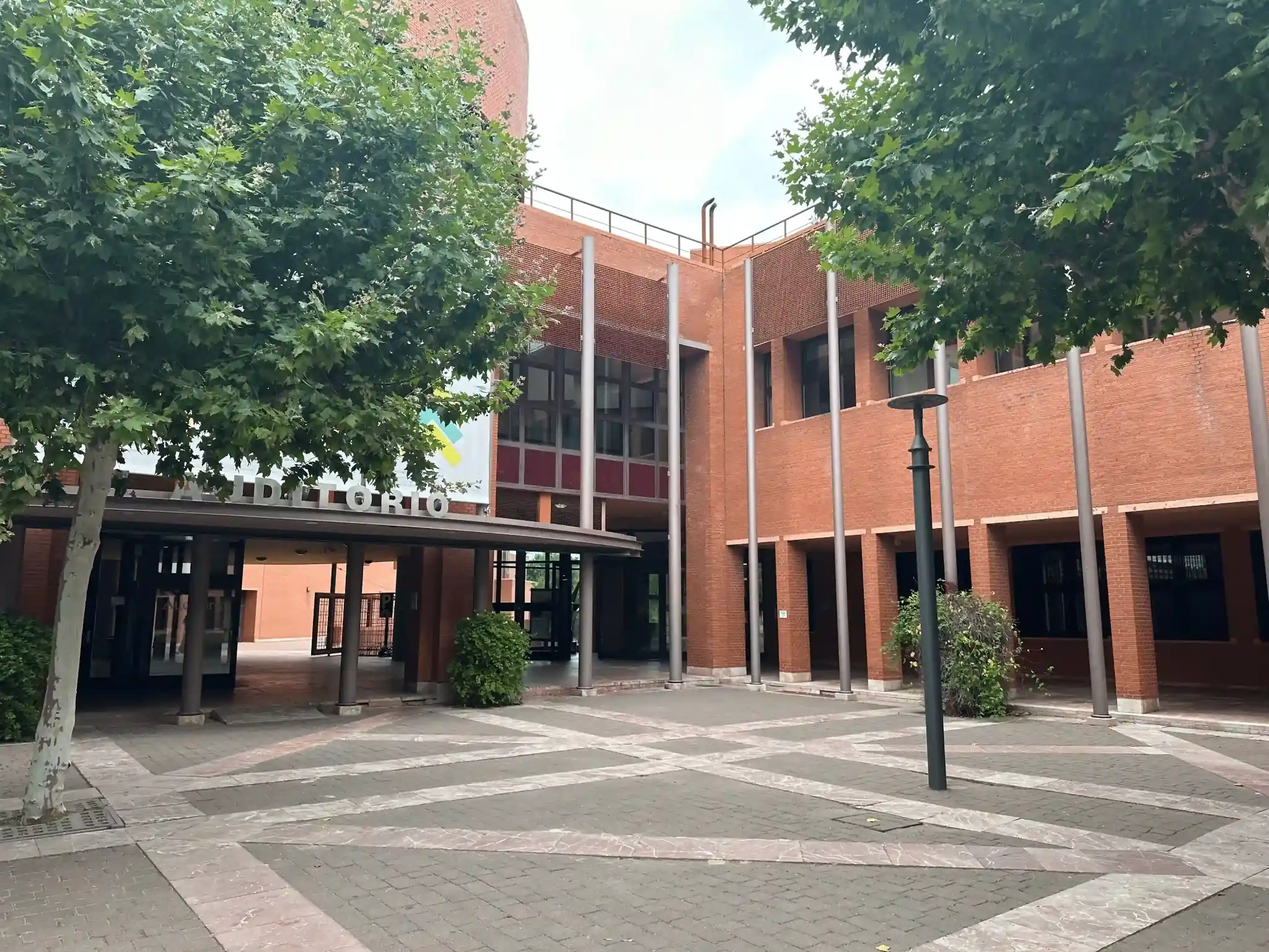
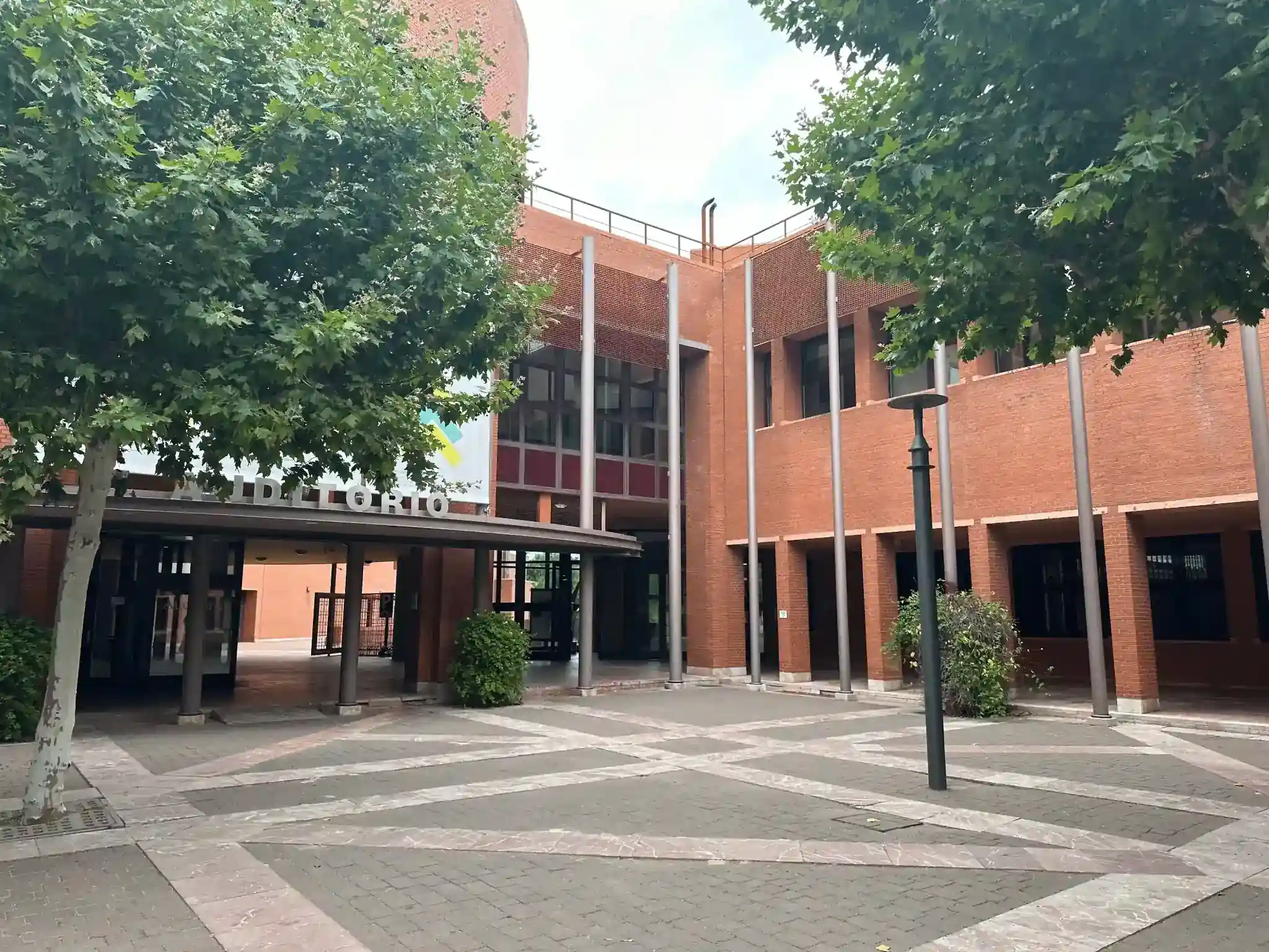
New smaller pictures

Changed region(s): [[0.4688, 0.2812, 0.5, 0.3125]]

diff --git a/src/routes/taquillas/[edificio]/+page.svelte b/src/routes/taquillas/[edificio]/+page.svelte
@@ -24,7 +24,7 @@
 	{#each pisos as i}
 		<a href="{building}/{i}" class="flex justify-center group relative">
 			<img
-				src={`../edificios/${data.edificio}/${i}.jpeg`}
+				src={`../edificios/${data.edificio}/${i}.webp`}
 				class="object-cover w-auto group-hover:opacity-60 transition duration-500 ease-in-out"
 				alt={`Edificio ${data.edificio}. ${i}`}
 			/>

diff --git a/src/routes/taquillas/+page.svelte b/src/routes/taquillas/+page.svelte
@@ -8,7 +8,7 @@
 			src: 'edificios/1-betancourt.webp',
 			href: '/taquillas/1'
 		},
-		{ alt: 'Edificio 2. Sabatini', src: 'edificios/2-sabatini.jpg', href: '/taquillas/2' },
+		{ alt: 'Edificio 2. Sabatini', src: 'edificios/2-sabatini.webp', href: '/taquillas/2' },
 		{
 			alt: 'Edificio 4. Torres Quevedo',
 			src: 'edificios/4-Torres_Quevedo.webp',

diff --git a/src/routes/+layout.svelte b/src/routes/+layout.svelte
@@ -241,7 +241,7 @@
 			</SidebarWrapper>
 		</Sidebar>
 	</Drawer>
-	<DarkMode btnClass="hidden" />
 
 	<slot />
+	<DarkMode btnClass="hidden" />
 </body>
